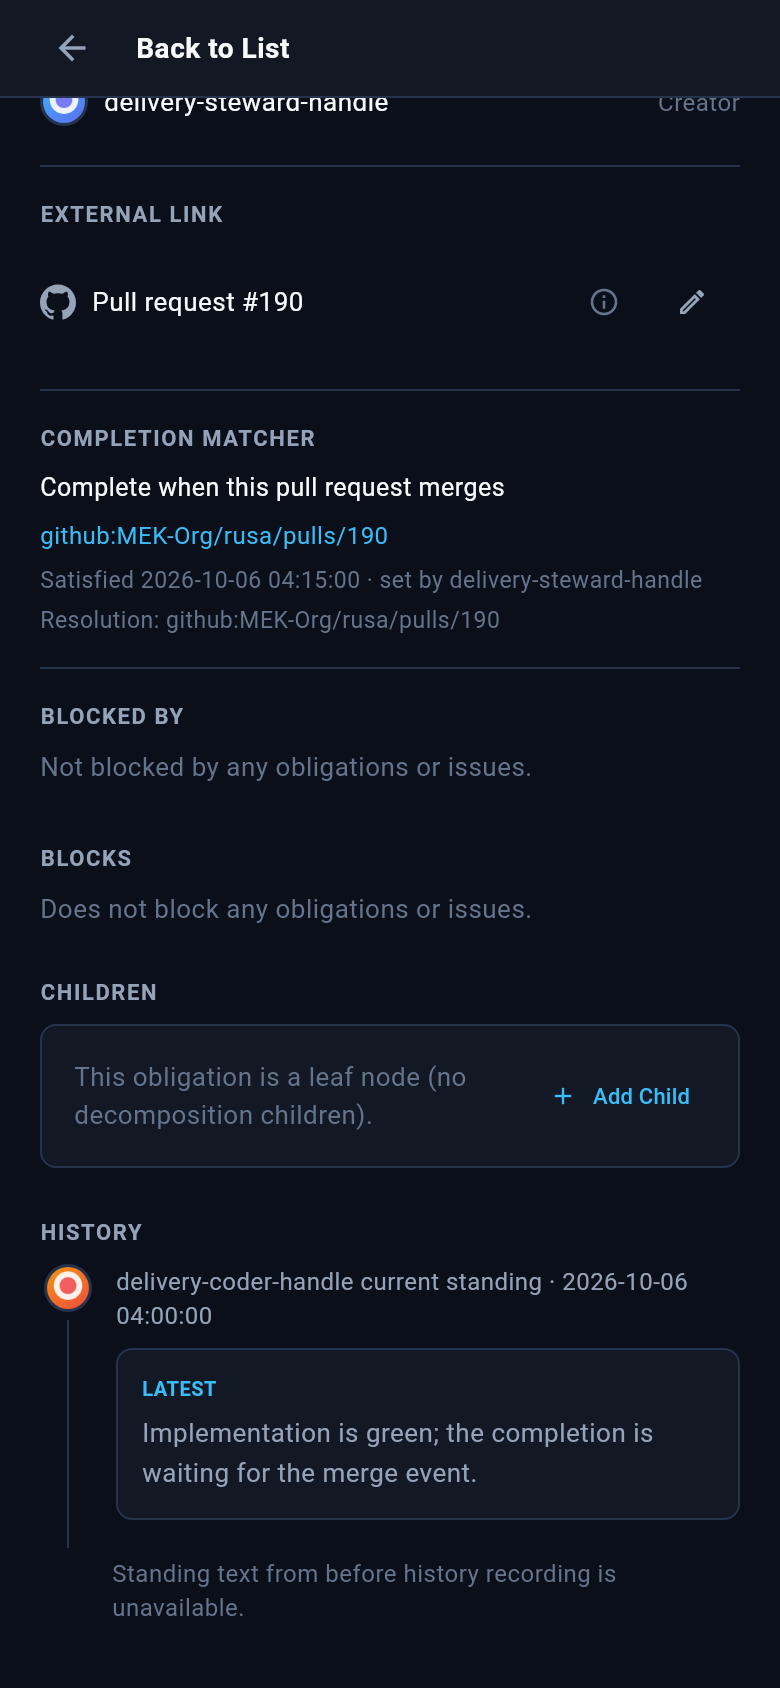
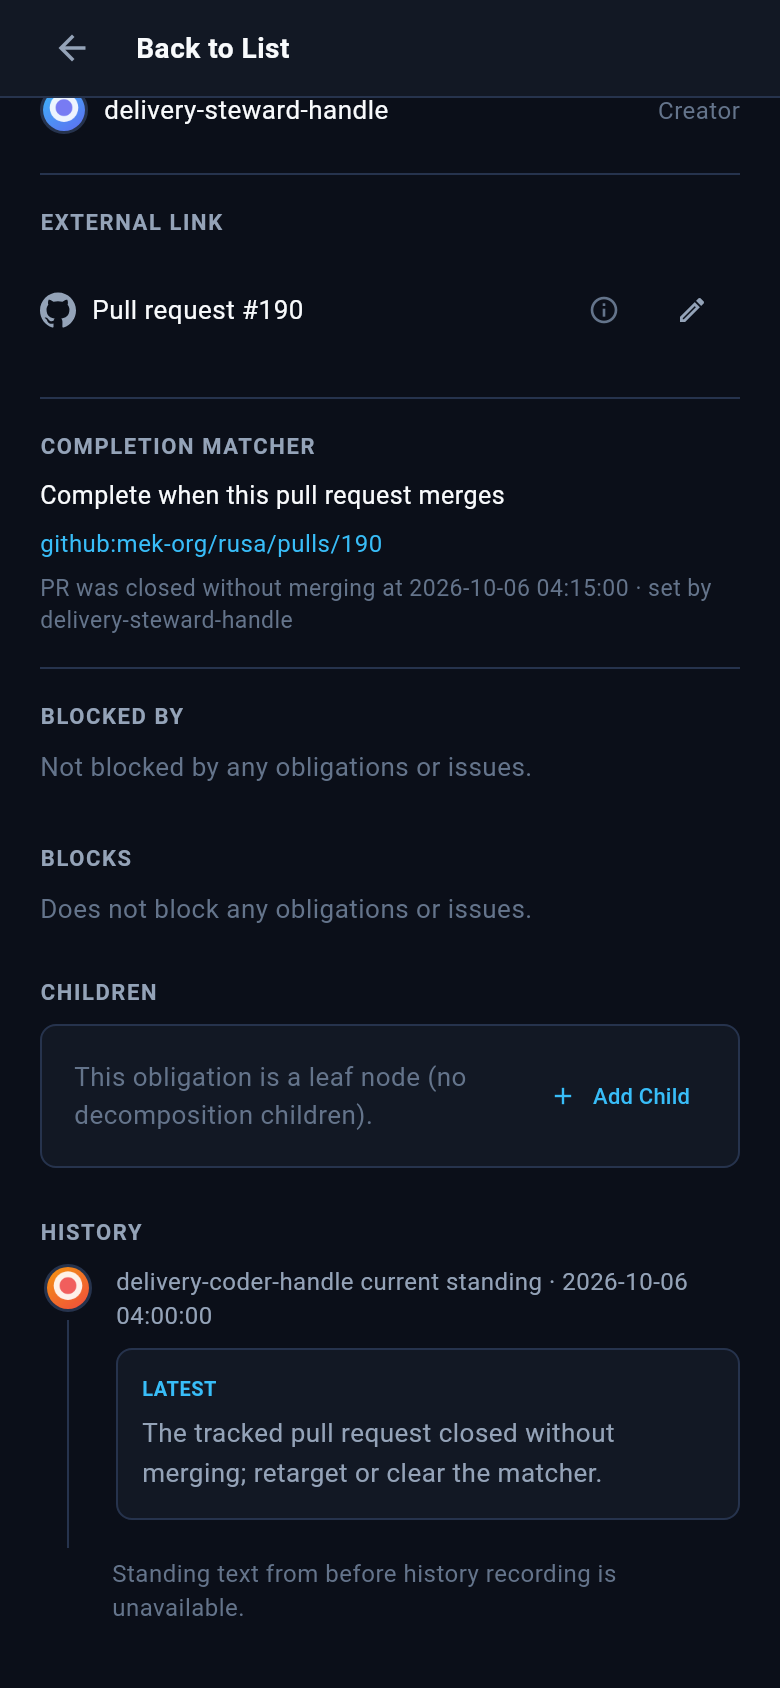
test(dashboard): recapture #926 matcher panel in its unmerged-close state

diff --git a/packages/rusa/flutter_dashboard/screenshots/926/README.md b/packages/rusa/flutter_dashboard/screenshots/926/README.md
@@ -5,10 +5,12 @@ read-only completion matcher in the Work detail's facts column, at wide
 (1400 × 900) and narrow (390 × 844) viewports, at pixel ratio 2.
 
 The fixture uses only synthetic identifiers and a synthetic `pr_merged`
-matcher in the detail-snapshot JSON. Both phases receive the same JSON. The
+matcher, recorded as closed without merging, in the detail-snapshot JSON. Both phases receive the same JSON. The
 pre-change dashboard at merge-base `39cfeb0c86f707195dfab6c5bdeeac30f87d9179`
 ignores the then-unknown `completionMatcher` key; #926's dashboard decodes it
-and renders the panel in its satisfied state with target, setter and resolution.
+and renders the panel in its unmerged-close state: the canonical target, the
+hedged "PR was closed without merging at" label, and the setter. The
+resolution line is reserved for deployed matchers and is absent here.
 No dashboard service, actor, or live obligation is queried.
 
 Run from the repository root with a writable Flutter SDK:
